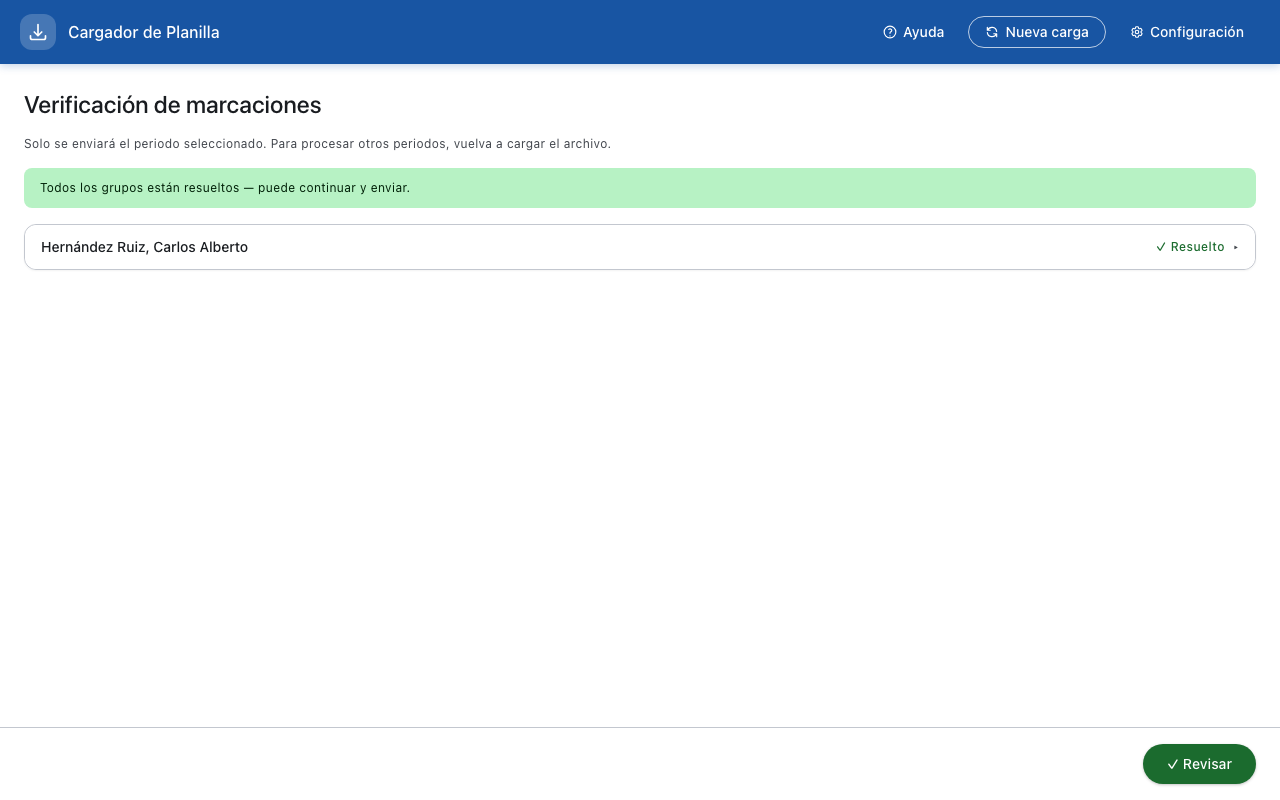
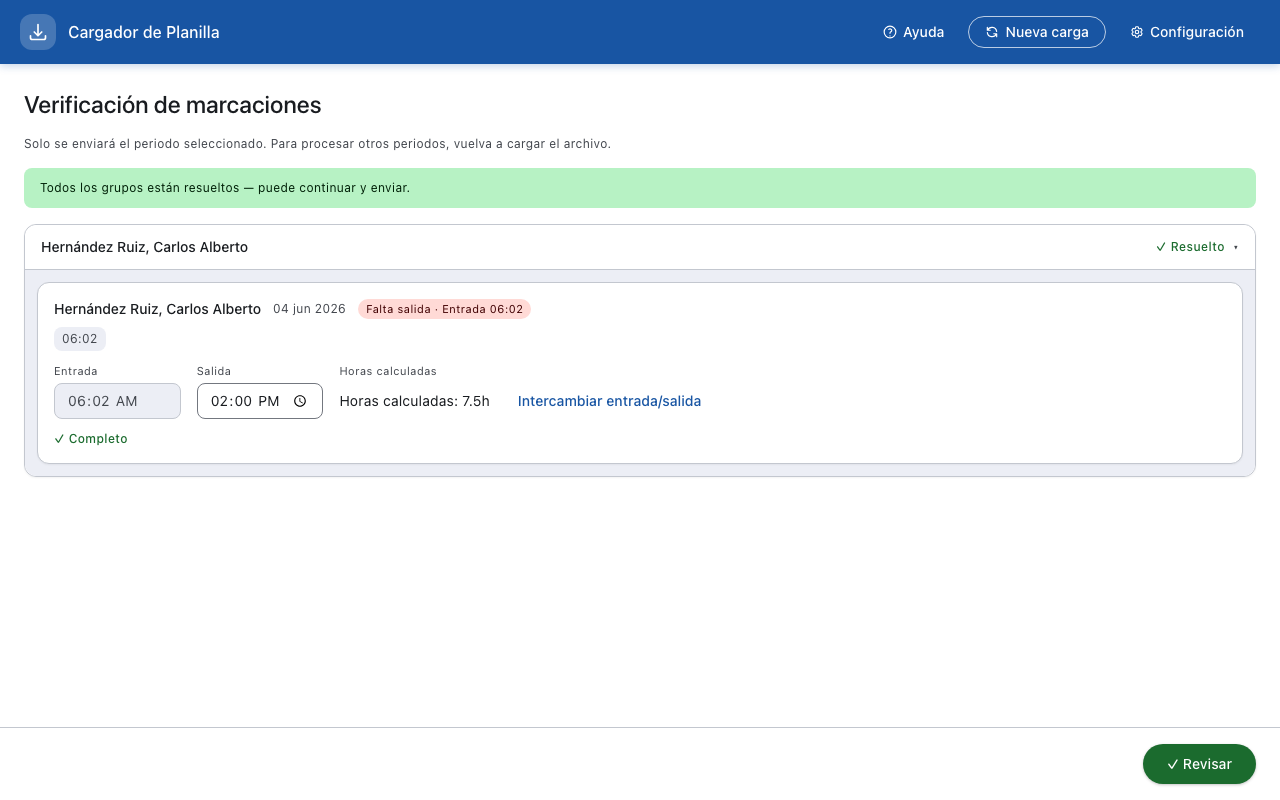
docs: manual and screenshots for saving as you type and the copy on this PC; changelog
Claude-Session: https://claude.ai/code/session_01XaBjnFVNSFFrBqXtvrNwvF

diff --git a/docs/manual_usuario.md b/docs/manual_usuario.md
@@ -204,7 +204,8 @@ El sistema encontró una o más marcaciones de salida para ese día, pero no enc
 **Qué hacer:**
 1. Revise las marcaciones originales (las pastillas azules debajo de la etiqueta) para entender el contexto.
 2. Ingrese la hora de entrada correcta en el campo **"Entrada"** (el campo muestra `--:-- --` cuando está vacío).
-3. Haga clic en **"Confirmar"**.
+
+No hay botón para confirmar ni para guardar: lo que escribe se guarda en el momento. Cuando la tarjeta tiene sus dos horas y son válidas, muestra **"✓ Completo"** y deja de contar como pendiente. Si deja una hora a medias, también queda guardada y la encontrará igual al volver.
 
 **¿La hora mostrada como salida es en realidad la entrada?** Cuando un día tiene una sola marcación, el sistema adivina si fue entrada o salida según el turno. Si se equivocó, haga clic en **"Intercambiar entrada/salida"**: la hora registrada pasa al campo **"Entrada"** y usted ingresa la **"Salida"**. Vea [Intercambiar entrada y salida](#intercambiar-entrada-y-salida).
 
@@ -216,8 +217,7 @@ El sistema encontró una marcación de entrada pero no encontró la marcación d
 
 **Qué hacer:**
 1. Revise las marcaciones originales para entender el contexto.
-2. Ingrese la hora de salida correcta en el campo **"Salida"**.
-3. Haga clic en **"Confirmar"**.
+2. Ingrese la hora de salida correcta en el campo **"Salida"**. Se guarda al escribirla.
 
 **¿La hora mostrada como entrada es en realidad la salida?** Es común en marcaciones de la tarde (por ejemplo, 16:58 o 17:30) de empleados del turno de mañana que olvidaron marcar al entrar. Haga clic en **"Intercambiar entrada/salida"**: la hora registrada pasa al campo **"Salida"** y usted ingresa la **"Entrada"**. Vea [Intercambiar entrada y salida](#intercambiar-entrada-y-salida).
 
@@ -229,15 +229,15 @@ Cuando un día tiene **una sola marcación**, el sistema decide si fue entrada o
 1. En la tarjeta **"Falta entrada"** o **"Falta salida"**, haga clic en **"Intercambiar entrada/salida"**.
 2. La hora registrada se mueve al otro campo, que queda bloqueado, y el campo vacío queda listo para escribir.
 3. La etiqueta cambia para reflejarlo (por ejemplo, de `Falta salida · Entrada 17:31` a `Falta entrada · Salida 17:31`).
-4. Ingrese la hora que falta y haga clic en **"Confirmar"**.
+4. Ingrese la hora que falta. Se guarda al escribirla.
 
 ![Tarjeta "Falta salida" después de intercambiar: la marcación de las 16:58 pasó a Salida y se escribe la Entrada](screenshots/25-verification-swap.png)
 
 Si la jornada cruza la medianoche (por ejemplo, entrada 22:00 y salida 06:00), el sistema coloca la hora que usted escribe en el día anterior o siguiente según corresponda. La jornada se cuenta en el día en que empezó, igual que cualquier turno de noche completo, también si eso la pasa a la otra quincena (entrada el 15, salida el 16): vea [Corte de período](#corte-de-período). Las horas después de la medianoche de un domingo o feriado se pagan dobles, y las de antes no. Si la jornada resultante dura más de 16 horas, verá el mensaje **"La jornada no puede durar más de 16 horas"**: revise que la hora sea correcta.
 
-Si se equivocó, haga clic en **"Deshacer intercambio"** antes de confirmar. Si ya confirmó, abra de nuevo la fila con **"Editar"**; el intercambio se conserva y puede deshacerlo.
+Si se equivocó, haga clic en **"Deshacer intercambio"**. Si la tarjeta ya está cerrada como **"Completo"**, ábrala con **"Editar"**; el intercambio se conserva y puede deshacerlo.
 
-**El turno se ajusta solo:** al confirmar, el sistema vuelve a asignar el turno según la hora de **entrada** que quedó (por ejemplo, una entrada a las 07:00 se cuenta como turno de **Mañana**). Así las horas extra se calculan contra la duración correcta del turno.
+**El turno se ajusta solo:** al pulsar **"Revisar"**, el sistema vuelve a asignar el turno según la hora de **entrada** que quedó (por ejemplo, una entrada a las 07:00 se cuenta como turno de **Mañana**). Así las horas extra se calculan contra la duración correcta del turno.
 
 #### Cambio de turno
 
@@ -247,8 +247,7 @@ Las marcaciones del empleado coinciden con un turno diferente al que tiene asign
 
 **Qué hacer:**
 1. Revise qué turno detectó el sistema y compárelo con el turno asignado.
-2. Seleccione el turno correcto que desea aplicar para ese día.
-3. Haga clic en **"Confirmar"**.
+2. El turno detectado se aplica solo si no hace nada. Para usar otro, haga clic en **"Elegir otro turno"** y selecciónelo en la lista: se aplica en el momento.
 
 #### Doble marcación
 
@@ -261,7 +260,7 @@ El sistema detectó dos sesiones de trabajo diferentes para el mismo empleado en
 **Qué hacer:**
 1. Revise ambas sesiones detectadas.
 2. La opción **"Mantener todas"** viene seleccionada y se aplica sola: no necesita hacer nada para continuar, y la tarjeta no cuenta como pendiente. La excepción: si a una sesión que se conserva le falta una marcación, hay que completar su hora (vea **Marcaciones sueltas** más abajo).
-3. Si una de las sesiones sobra, seleccione la que desea conservar. La tarjeta se cierra y muestra **"Confirmado"**; puede reabrirla con **"Editar"**.
+3. Si una de las sesiones sobra, seleccione la que desea conservar. La elección se guarda en el momento. La próxima vez que abra la verificación, la tarjeta aparece cerrada como **"Completo"**; puede reabrirla con **"Editar"**.
 
 **Marcaciones sueltas.** Si cada sesión de la doble marcación tiene una sola marcación (por ejemplo 07:08 y 22:03), la tarjeta dice *"Cada marcación está sola: falta la otra marcación de cada jornada."* y la tarjeta cuenta como pendiente hasta que complete las horas:
 
@@ -282,11 +281,11 @@ El empleado salió significativamente antes de lo esperado según su turno asign
 **Qué hacer:**
 1. Revise las horas de entrada y salida detectadas.
 2. Si la salida temprana es correcta, no haga nada.
-3. Si la hora de salida es incorrecta, corrija el campo **"Salida"** y haga clic en **"Registrar corrección"**. La tarjeta muestra **"Corrección registrada · Salida HH:MM"**; con **"Deshacer"** vuelve a la hora marcada.
+3. Si la hora de salida es incorrecta, corrija el campo **"Salida"**. La corrección se guarda al escribirla y la tarjeta muestra **"Corrección guardada · Salida HH:MM"**; con **"Deshacer"** vuelve a la hora marcada.
 
 ![Sección "Jornadas cortas" al final de la verificación](screenshots/24-verification-short-day.png)
 
-Si la salida queda antes de la entrada en un turno de día, verá **"La hora de salida debe ser posterior a la hora de entrada."** y el botón queda deshabilitado. En un turno de noche, una salida después de la medianoche es válida.
+Si la salida queda antes de la entrada en un turno de día, verá **"La hora de salida debe ser posterior a la hora de entrada. Mientras tanto se enviará la salida marcada HH:MM."** En un turno de noche, una salida después de la medianoche es válida.
 
 #### Corte de período
 
@@ -305,7 +304,8 @@ Un turno de noche toca el primer o el último día del archivo, así que puede f
 
 **Qué hacer:**
 1. Revise las horas de entrada y salida que muestra el sistema y complete la que falta.
-2. Haga clic en **"Confirmar"**.
+
+Si la tarjeta ya tiene las dos horas, tomadas de las marcaciones, cuenta como revisada tal como está: aparece cerrada como **"Completo"** y no bloquea **"Revisar"**. Ábrala con **"Editar"** si quiere corregirla. Lo mismo vale para cualquier tarjeta que abra con dos marcaciones y sus horas en orden, por ejemplo una **"Falta entrada"** cuya primera marcación fue muy tarde.
 
 #### Turno estimado
 
@@ -317,9 +317,7 @@ Las marcaciones del empleado no coincidieron con la ventana de detección de nin
 
 **Qué hacer:**
 1. Revise el turno asignado automáticamente y las horas de entrada/salida.
-2. Si el turno asignado es correcto, confirme.
-3. Si desea cambiar el turno, seleccione el correcto antes de confirmar.
-4. Haga clic en **"Confirmar"**.
+2. Complete la hora que falta, si la tarjeta la pide. Todo se guarda al escribirlo.
 
 #### Selector de período
 
@@ -482,7 +480,11 @@ La barra inferior muestra cuántos registros se enviarán y cuántos serán excl
 
 ### Continuar una sesión sin terminar
 
-La aplicación guarda su avance automáticamente mientras trabaja en los pasos de **empleados inactivos**, **verificación** y **revisión**. No hay un botón de "Guardar": cada decisión que toma (entradas y salidas corregidas, turnos aceptados, dobles marcaciones resueltas, horas extras y días no laborados ajustados, el período seleccionado) se guarda unos instantes después.
+La aplicación guarda su avance automáticamente mientras trabaja en los pasos de **empleados inactivos**, **verificación** y **revisión**. No hay botones de "Guardar" ni de "Confirmar": cada cosa que escribe o elige (horas completas o a medias, intercambios, turnos, dobles marcaciones, correcciones de jornadas cortas, horas extras y días no laborados ajustados, el período seleccionado) se guarda en el momento. Puede dejar la aplicación abierta o cerrarla el tiempo que quiera, por ejemplo durante un fin de semana, y retomar donde la dejó.
+
+El avance se guarda en **dos lugares** de esta computadora: en la base de datos de la aplicación y en una copia aparte que guarda la propia ventana, junto con el archivo que cargó. Si la primera falta o no se puede leer, la aplicación reconstruye la sesión desde la copia aparte: vuelve a leer el mismo archivo y aplica todas sus decisiones. Verá *"Se recuperó la sesión guardada en este equipo."* Si estaba en la revisión, vuelve a la verificación con todo completo: pulse **"Revisar"** para ver los totales. Si algún día cambió (por ejemplo, porque se modificaron los turnos), un aviso indica cuántas decisiones no se pudieron recuperar.
+
+Si el guardado falla, verá *"No se pudo guardar el avance. Se reintentará automáticamente; mientras tanto, no cierre la aplicación."* La aplicación lo reintenta sola cada 15 segundos y avisa cuando vuelve a guardar. Si intenta cerrarla mientras el guardado falla, la primera vez no se cierra y le explica que, si vuelve a cerrarla en los próximos 30 segundos, se cerrará sin guardar.
 
 Si la aplicación se cierra, se reinicia el equipo o el servicio interno se detiene, al volver a abrirla verá una tarjeta **"Sesión sin terminar"** encima del área para cargar archivos:
 
@@ -499,13 +501,13 @@ Solo se guarda **la última sesión**. La sesión guardada se descarta cuando:
 
 **Envío parcial.** Si un envío terminó con algunos registros fallidos, la sesión se conserva para que pueda retomarla. La tarjeta muestra además la línea *"Envío parcial: algunos registros ya se enviaron y aparecerán como duplicados."* Al continuar, llegará a la revisión y los registros que ya se enviaron aparecerán marcados como duplicados, por lo que no se enviarán dos veces.
 
-**Sesión de otra versión.** Si la sesión se guardó antes de instalar una versión de la aplicación que cambió cómo se guardan las sesiones, la tarjeta muestra *"Esta sesión se guardó con otra versión de la aplicación y no se puede continuar. Descártela y vuelva a cargar el archivo."* y solo ofrece **Descartar**. Sus decisiones de esa sesión no se pueden recuperar; vuelva a cargar el mismo archivo para empezar de nuevo.
+**Sesión de otra versión.** Si instala una versión nueva de la aplicación con una sesión sin terminar, al continuar se reconstruye desde la copia aparte (ver arriba), con sus decisiones. Solo si esa copia no existe (por ejemplo, una sesión de la versión 1.3.2 o anterior), la tarjeta muestra *"Esta sesión se guardó con otra versión de la aplicación y no se puede continuar. Descártela y vuelva a cargar el archivo."* y solo ofrece **Descartar**.
 
 ![Sesión guardada con otra versión: aviso y solo el botón Descartar](screenshots/21-resume-draft-outdated.png)
 
 **Envío en curso.** Si abre la aplicación mientras un envío todavía se está procesando, la tarjeta muestra *"Envío en curso, espere a que termine."* y no ofrece **Continuar** ni **Descartar** hasta que el envío termine. Mientras tanto la aplicación tampoco acepta otro envío, aunque cargue de nuevo el archivo.
 
-> **Nota:** La sesión se guarda solo en esta computadora. Los cambios hechos en el último segundo antes de un cierre forzado podrían no quedar guardados.
+> **Nota:** La sesión se guarda solo en esta computadora. Lo escrito en el último medio segundo antes de un corte de luz podría no quedar guardado.
 
 ---
 

diff --git a/CHANGELOG.md b/CHANGELOG.md
@@ -2,10 +2,16 @@
 
 ## Unreleased
 
+### Features
+- **Everything in verification is saved as it is typed; there are no save or confirm buttons.** A time on a "Falta entrada/salida" card, a swap, a short-day correction, a shift picked under "Cambio de turno" and a double-scan choice all go into the saved session the moment they change, half-typed times included, so a card left half-filled comes back the same after a restart. "Confirmar", "Registrar corrección", "Aplicar"/"Cancelar" and "Listo" are gone. A card with both times valid shows "✓ Completo" and stops counting as pending. A card or group that is open stays open while it is filled in instead of folding shut. A card that opens with two scans and its times in order (a night at the file's edge, a late first scan) counts as checked as it is and stays available to correct. The saved session's format changed (version 2): a 1.3.2 session can't be resumed by this version.
+- **A second copy of the session on this PC.** On every save, before any network call, the app also keeps the uploaded file and every decision in its own storage. When the backend's saved session is missing, unreadable or from another version, or the backend can't be asked, the start screen offers this copy; "Continuar" uploads the same file again, replays the inactive-employee choices and carries every decision over to the new session's days. A session that had reached the review comes back to verification, complete, one "Revisar" away. Decisions whose day changed (different shifts or employees) are counted in a warning. The copy is marked once a submission starts, so it can never send a payroll twice, and dropped when the session ends.
+
 ### Fixes
+- **A failed final save refuses the first close.** Closing while saving fails is refused once with "No se pudo guardar el avance. Si vuelve a cerrar la aplicación en los próximos 30 segundos, se cerrará sin guardar." A second close within 30 s goes ahead.
 - **A failed autosave is no longer silent.** If the session can't be saved (the backend is unreachable, the disk is full), a warning says so and asks not to close the app, the save is retried every 15 s on its own (also when the user has walked away and makes no further edit), and a notice confirms when saving works again. Before, the failure only went to the developer console, and work left idle could be lost without warning.
 
 ### Tests
+- **The weekend away, on the real screens.** A new test loads a file through the start screen, types into two cards (one only half), drops everything in memory as a restart does, comes back, finishes, presses "Revisar" and then "Enviar", once with the backend's saved session and once with it lost so the copy on this PC carries it. Removing the saved card inputs fails both; removing the local copy fails the second.
 - **Walking away is covered end to end.** A new test runs the real app: upload, save the draft as the app does, a day idle, an eviction pass and a backend restart, then "Revisar" must still work. A second case shows an unsaved session is dropped, and planting 1.2.2's eviction rule fails the first. 1.2.2 dropped every upload 30 minutes after it was made, which lost a reviewed session in production.
 
 ## v1.3.2 — 2026-11-18
